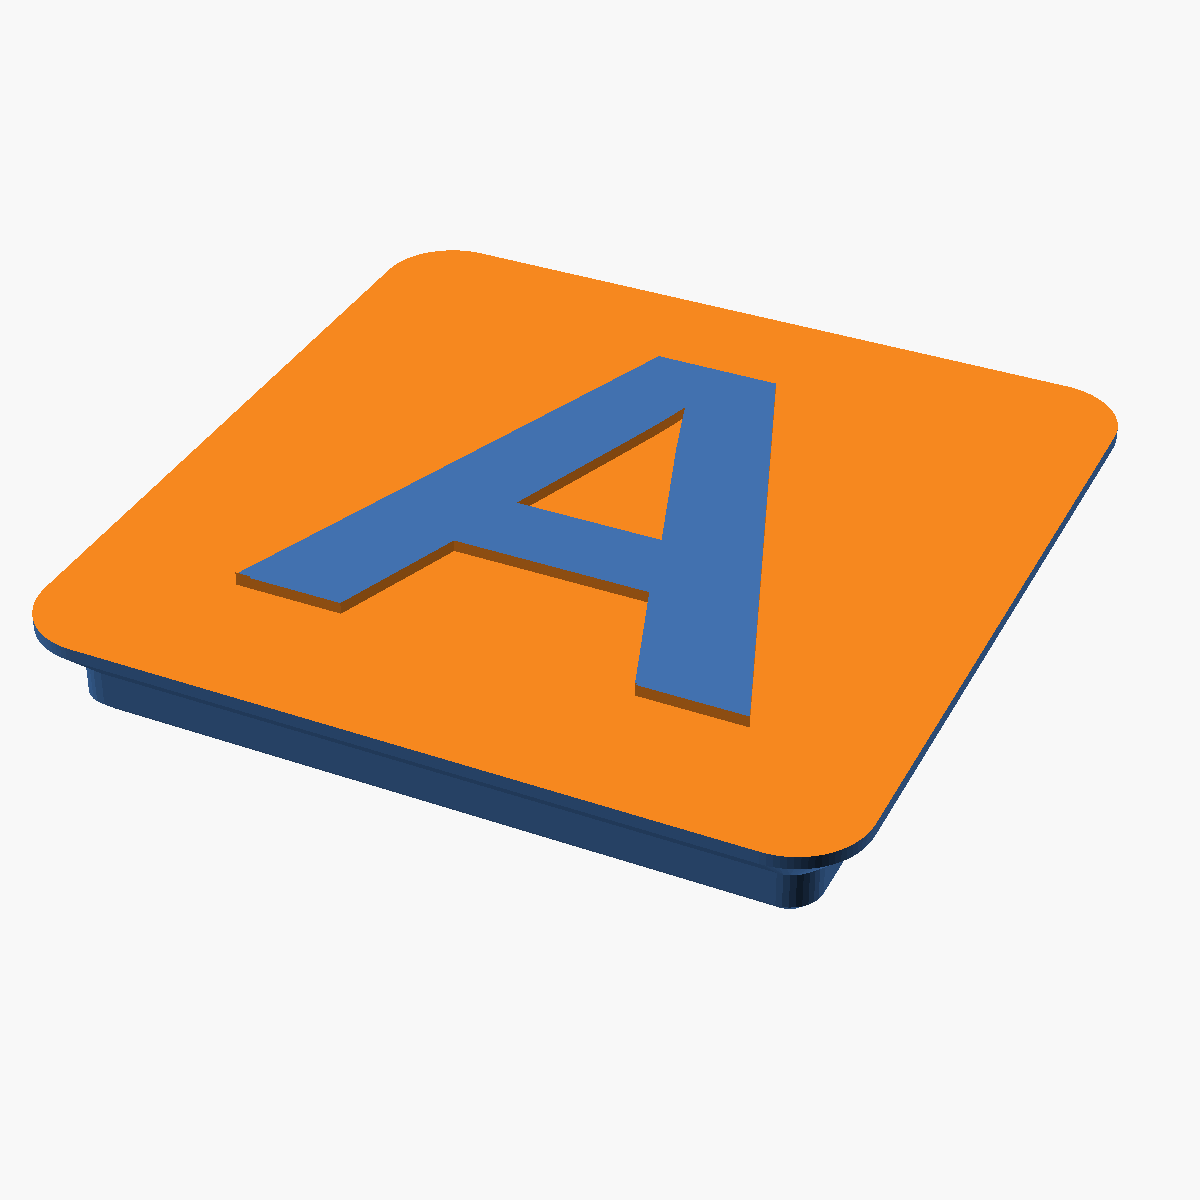
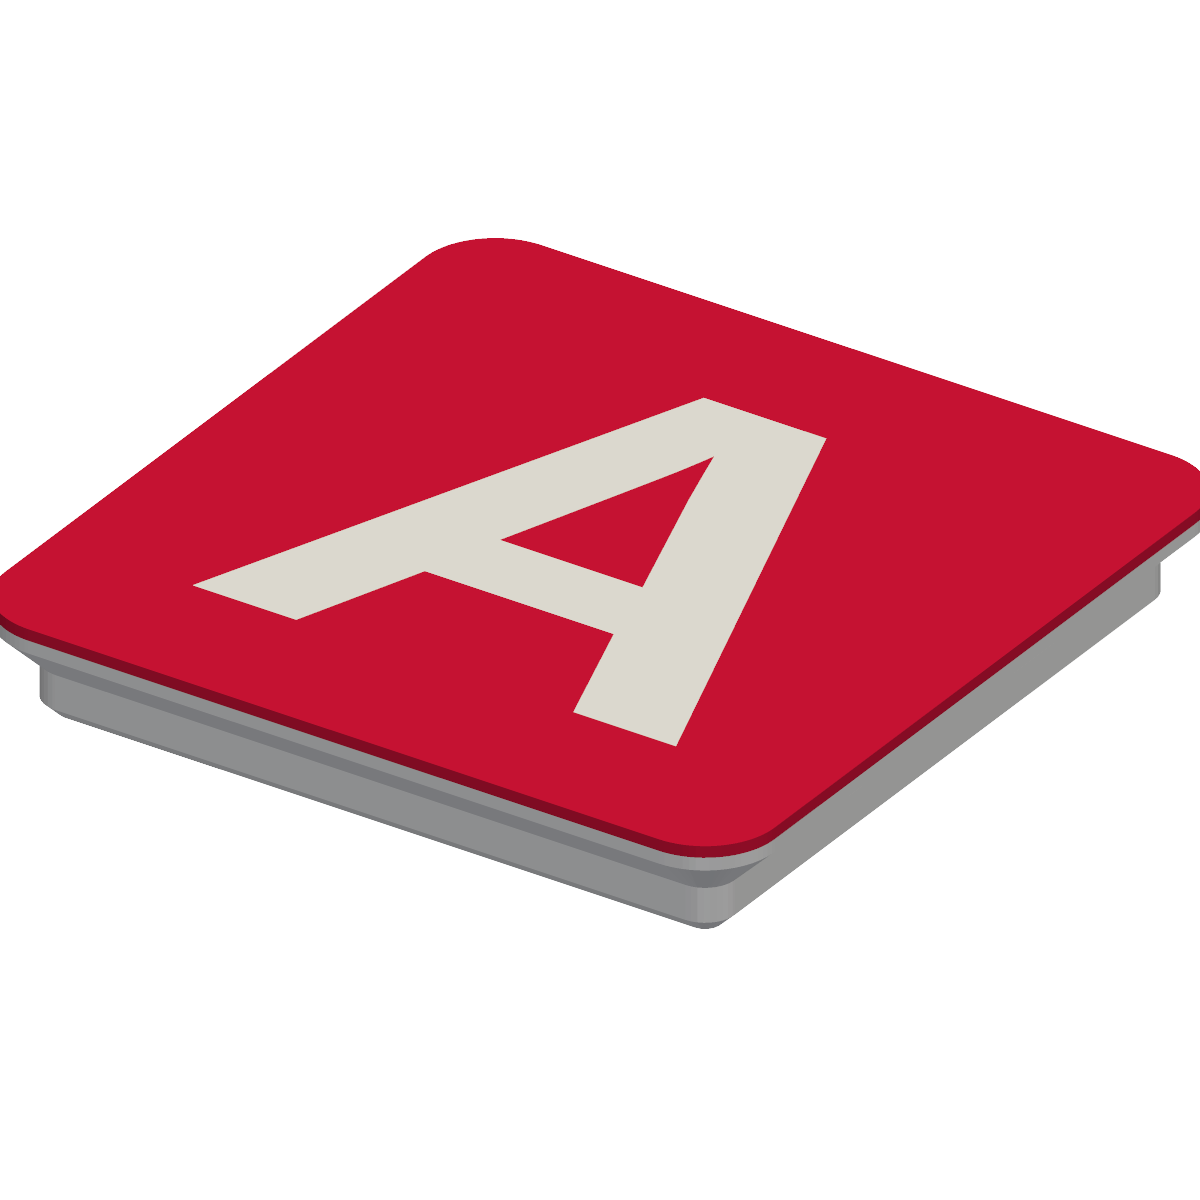
Add render script and update screenshot

diff --git a/docs/render.py b/docs/render.py
@@ -1,0 +1,48 @@
+# /// script
+# requires-python = ">=3.10"
+# dependencies = ["pyvista"]
+# ///
+"""Render README images from the OpenSCAD-exported STLs.
+
+PyVista loads both bodies as separate meshes, optionally clips them with a
+plane (true cutaway — no geometry mutation in OpenSCAD), and writes a PNG
+with transparent background.
+"""
+
+import sys
+
+import pyvista as pv
+
+BODY_COLOR = "whitesmoke"
+OUTSIDE_COLOR = "crimson"
+WINDOW = (1200, 1200)
+
+
+def render(body_stl: str, outside_stl: str, out_png: str, mode: str) -> None:
+    body = pv.read(body_stl)
+    outside = pv.read(outside_stl)
+
+    if mode == "cutaway":
+        # Keep y >= -13 so the cut face passes through the front-row magnet
+        # pockets. Normal points outward from the discarded side.
+        plane = dict(normal=(0.0, -1.0, 0.0), origin=(0.0, -13.0, 0.0))
+        body = body.clip(**plane)
+        outside = outside.clip(**plane)
+    elif mode != "preview":
+        sys.exit(f"unknown mode: {mode!r}")
+
+    p = pv.Plotter(off_screen=True, window_size=WINDOW)
+    p.add_mesh(body, color=BODY_COLOR, ambient=0.25, diffuse=0.75, specular=0.1)
+    p.add_mesh(outside, color=OUTSIDE_COLOR, ambient=0.25, diffuse=0.75, specular=0.1)
+
+    # 3/4 view from the front-left-above so the cutaway face is visible.
+    p.camera_position = [(50.0, -75.0, 55.0), (0.0, 0.0, 3.0), (0.0, 0.0, 1.0)]
+    p.enable_parallel_projection()
+
+    p.screenshot(out_png, transparent_background=True)
+
+
+if __name__ == "__main__":
+    if len(sys.argv) != 5:
+        sys.exit("usage: render.py <body.stl> <outside.stl> <out.png> <preview|cutaway>")
+    render(*sys.argv[1:])